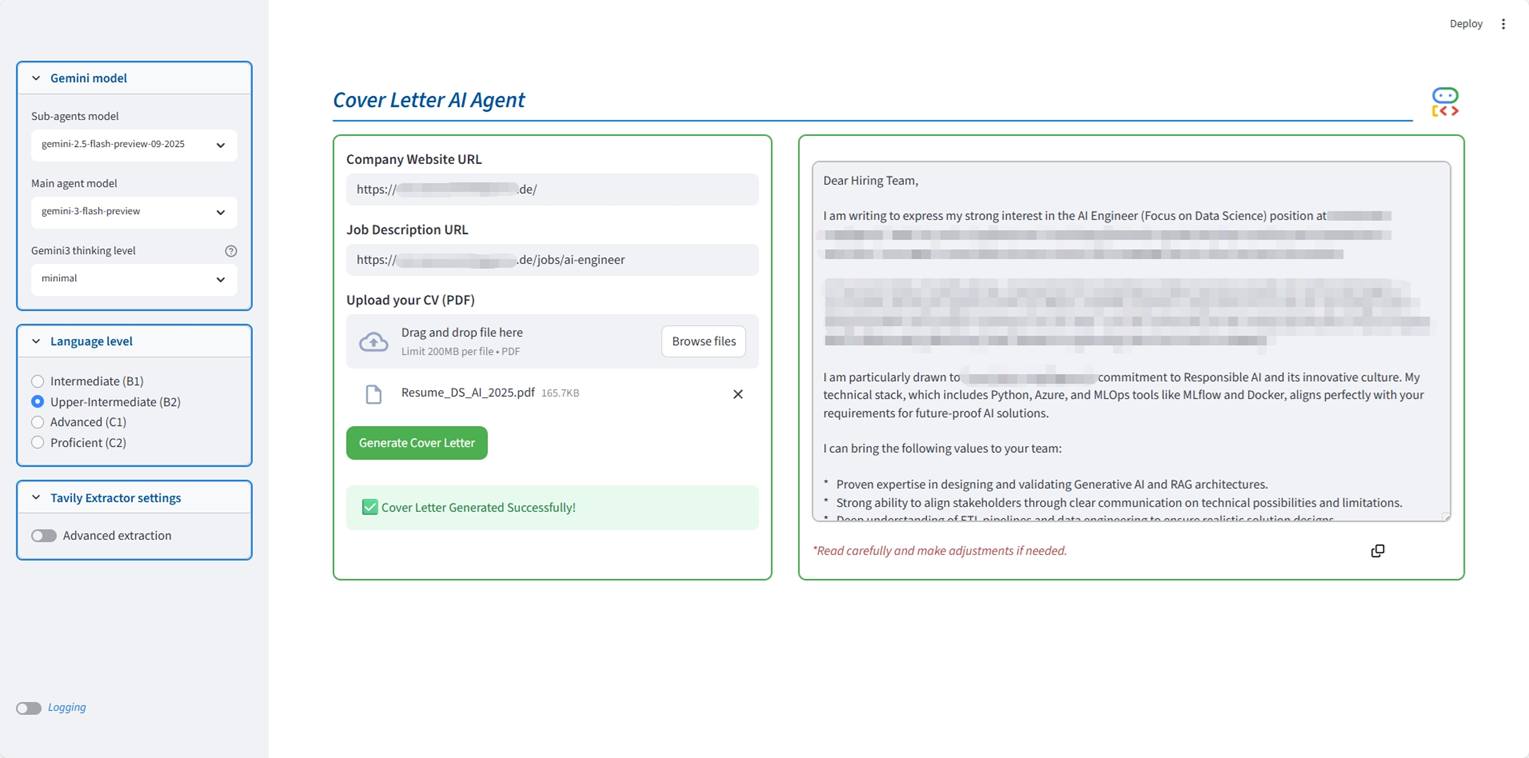
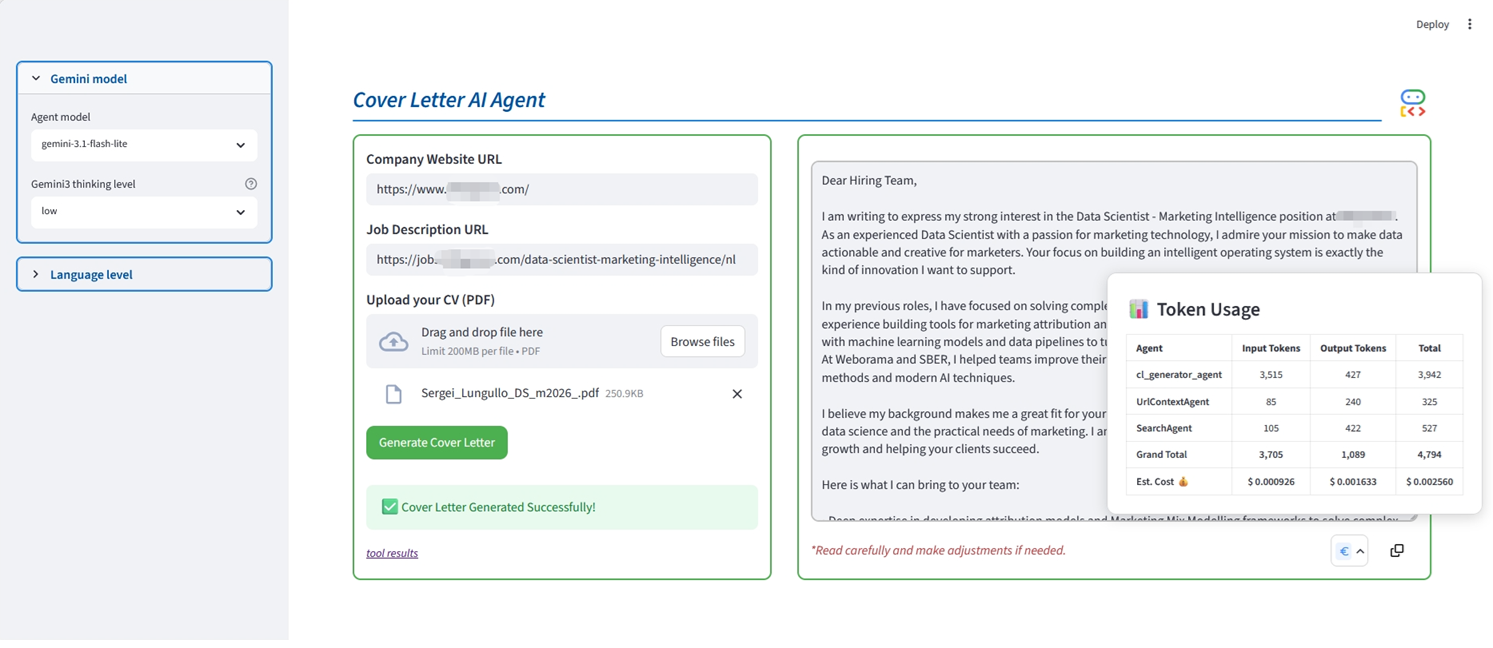
docs: update README documentation to reflect token tracking integration

diff --git a/README.md b/README.md
@@ -22,6 +22,7 @@ app/
 ├── streamlit_app.py       # Main Streamlit web application
 ├── pages/                 # Additional Streamlit pages
 │   └── logs_viewer.py     # Logs monitoring interface
+├── tokentracker.py        # Token tracking utility
 ├── ui.py                  # Streamlit UI components
 ├── style.css              # Custom styling for Streamlit
 ├── utils.py               # Shared utility functions
@@ -57,6 +58,7 @@ To help monitor the process, the intermediate results of agent's tools are logge
 - `python-dotenv`
 - `nest_asyncio`
 - `pypdf`
+- `rich`
 - Access to Google Gemini API and Search tools.
 
 ## 🔧 Configuration
@@ -97,13 +99,15 @@ Alternatively, you can use the provided helper script:
 ```
 
 **Features:**
-- Sidebar for selecting **Agent model** (e.g., `gemini-3.1-flash-lite`).
-- **Language Level** selection (Intermediate B1 to Proficient C2).
-- **Gemini3 Thinking Level** configuration (minimal, low, medium, high).
-- Real-time status updates.
-- **Built-in Logs Viewer**: Dedicated page to monitor agent's tool results and research data.
+- Sidebar for selecting:
+    - **Agent model** (e.g., `gemini-3.1-flash-lite`).
+    - **Language Level** (Intermediate B1 to Proficient C2).
+    - **Gemini3 Thinking Level** (minimal, low, medium, high).
 - **Logging Toggle**: Controls the console logging level. When enabled, verbose log information about the agent's workflow is printed out in the console (DEBUG mode).
+- **Built-in Logs Viewer**: Dedicated page to monitor agent's tool results and research data.
+- **Token Usage Statistics**: A popover displaying token usage and estimated cost statistics is available after the generation process completes.
 - Copy-to-clipboard functionality for the generated letter.
+- Real-time status updates.
 
 ### 2. CLI (Command Line Interface)
 
@@ -121,7 +125,7 @@ uv run python app/main.py -f path/to/your_cv.pdf [options]
 | `-v` | `--verbose` | `False` | Enable verbose logging to see detailed agent thoughts/actions. |
 | `-l` | `--language_level` | `b1` | Language proficiency level (b1, b2, c1, c2). |
 | `-T` | `--thinking_level` | `minimal` | Gemini 3.0 thinking level (minimal, low, medium, high). |
-| `-ь` | `--model` | `gemini-3.1-flash-lite-preview` | Gemini model used by the root agent. |
+| `-m` | `--model` | `gemini-3.1-flash-lite-preview` | Gemini model used by the root agent. |
 
 #### Example
 
@@ -131,14 +135,16 @@ uv run python app/main.py -f ./my_cv.pdf --verbose --model gemini-3-pro-preview
 
 *Note: You will be prompted to enter the Company URL and Job Description URL after the script starts if they are not set in environment variables.*
 
+Upon successful completion, the script will display detailed token usage and estimated cost statistics formatted as a table in the terminal.
+
 ### 3. Google ADK Web UI
 
 Launch the agent using the Google Agent Development Kit's standard web interface.
 
 ```bash
-adk web [options]
+uv run adk web [options]
 ```  
-Run `adk web --help` to see available options.
+Run `uv run adk web --help` to see available options.
 
 ## 🐳 Docker
 
